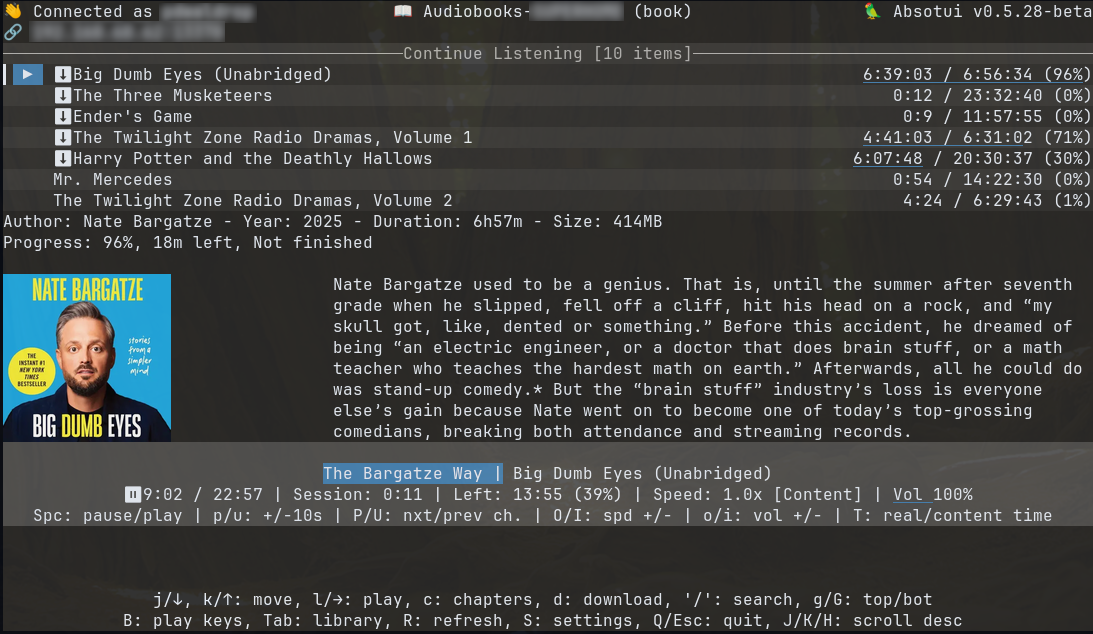
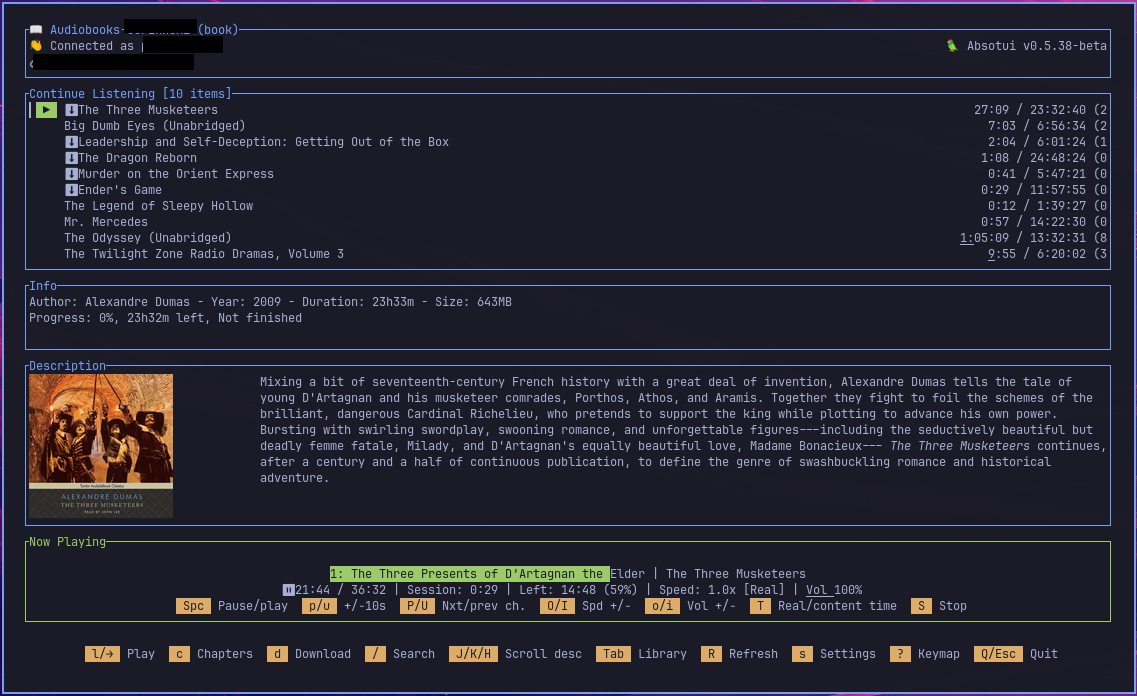
Update README/CONTRIBUTING for terminal-native theming and Keymap
The color-theme feature these docs described (a config file for custom
colors, a community theme-sharing repo) was removed earlier this
session in favor of always following the terminal's own theme - update
the docs to match, and add the new Keymap screen (`?`) to the feature
list. Also swaps in a current screenshot (v0.5.38-beta, showing the
new bordered sections and footer chips), with the same username/server
redaction the previous screenshot used.

diff --git a/README.md b/README.md
@@ -38,11 +38,12 @@
 - **Books & podcasts:** full support for both, including a unified "New & Unfinished" podcast home view and instant mark-as-finished (`F`)
 - **Podcast autoplay:** automatically start the next unfinished episode when one finishes
 - **Streaming or offline:** play directly, or download any book or podcast episode (`d`) for offline playback — a download is preferred automatically once you have one. Settings > Auto Download can keep your active listening downloaded automatically, and downloaded items are marked right in the list
-- **Cover art:** book and podcast episode cover art shown alongside the description (terminal permitting — Kitty/Sixel/iTerm2), preferring a podcast episode's own embedded artwork over the podcast's cover when the episode's file has one
+- **Cover art:** book and podcast episode cover art shown inside the Description panel (terminal permitting — Kitty/Sixel/iTerm2), preferring a podcast episode's own embedded artwork over the podcast's cover when the episode's file has one
 - **Chapter navigation:** browse a book's full chapter list inline in Continue Listening, with live per-chapter progress
 - **Desktop integration:** a custom app icon, its own taskbar/dock window icon (on supported terminals), and a window title that shows what's currently playing
 - **In-app update / uninstall:** Settings > Update / Uninstall runs the install script for you — authenticates the same way a real terminal would (fingerprint reader first, if configured, falling back to a password prompt), streams progress live, and relaunches itself on a successful update. `absotui --update`/`--uninstall` still work unchanged as a fallback
-- **Customizable color theme:** a config file lets you customize the color theme, including the progress indicator color — [explore and share themes here](https://github.com/AlbanDAVID/Toutui-theme)
+- **Terminal-native theming:** the whole UI renders using your terminal's own color scheme automatically — no config file or custom palette to maintain, it just matches whatever theme your terminal is set to
+- **Full keymap reference:** press `?` on any screen for a complete, always-accurate list of every key that works there — footers only show a short, curated set of the most useful hints to keep things uncluttered
 - **Per-item playback speed:** optionally (Settings > Per-Item Speed) let each book or podcast show remember its own playback speed instead of sharing one speed across everything
 - **Reliable sync:** per-item progress bars and a now-playing marker in the Continue Listening list, accurate progress percentages even at non-1x playback speed, and a clear retry/change-server screen instead of the app just closing if Audiobookshelf is unreachable
 
@@ -147,7 +148,7 @@ Files installed — same as above (`.env`, `config.toml`, `absotui.log`, `db.sql
 ---
 
 ## 🛠 Roadmap
-Recent work: audiobooks split across multiple files now play, navigate chapters, and download correctly across every file, not just the first; app startup with a large podcast library is dramatically faster (roughly 17s down to 4-5s); a more reliable playback session lifecycle (quitting, switching tracks, and recovering from a crash all sync and close sessions correctly).
+Recent work: audiobooks split across multiple files now play, navigate chapters, and download correctly across every file, not just the first; app startup with a large podcast library is dramatically faster (roughly 17s down to 4-5s); a more reliable playback session lifecycle (quitting, switching tracks, and recovering from a crash all sync and close sessions correctly); and a UI refresh — terminal-native theming, bordered/labeled sections, curated footers, and a full keymap reference (`?`) on every screen.
 
 **Under consideration:**
 - Playlist/Collections view
@@ -170,7 +171,7 @@ Contributions of code, ideas, or feedback are welcome — see the [contributing 
 This project follows [this branching workflow](https://gist.github.com/digitaljhelms/4287848).
 
 ### 🎨 UI
-Explore and share themes [here](https://github.com/AlbanDAVID/Toutui-theme). The font and emoji you see may vary depending on your terminal.
+Absotui renders using your terminal's own color theme automatically, with a small set of accent colors pulled from it for structure (borders, active items, keybind hints) — there's no separate config to keep in sync with your terminal. The font and emoji you see may vary depending on your terminal.
 
 ### 🖥 Terminal compatibility
 Absotui works in any modern terminal, but two features scale with what your terminal supports:

diff --git a/CONTRIBUTING.md b/CONTRIBUTING.md
@@ -9,7 +9,6 @@ Absotui is still in heavy development, so the code and workflow here are still e
 This project follows this [branching workflow](https://gist.github.com/digitaljhelms/4287848). 
 
 ## 💬 How to Contribute
-- **Share your theme**: Check [here](https://github.com/AlbanDAVID/Toutui-theme) (Toutui's theme repo — themes there should still be compatible).
 - **Suggestions/feedback**: Open a [Feature Request issue](https://github.com/pdwaldrop/Absotui/issues/new/choose) or start a [discussion](https://github.com/pdwaldrop/Absotui/discussions).
 - **Bugs**: Report bugs not already listed in [issues](https://github.com/pdwaldrop/Absotui/issues) or [known bugs](known_bugs.md), using the Bug Report issue template. Installation/update/uninstall problems specifically have their own template.
 - **Code**: Fork the repo, create a branch, and submit a pull request. Run `cargo build`, `cargo clippy --all-targets`, and `cargo test` before opening it — see [CLAUDE.md](CLAUDE.md) for the full command list and codebase architecture notes.
